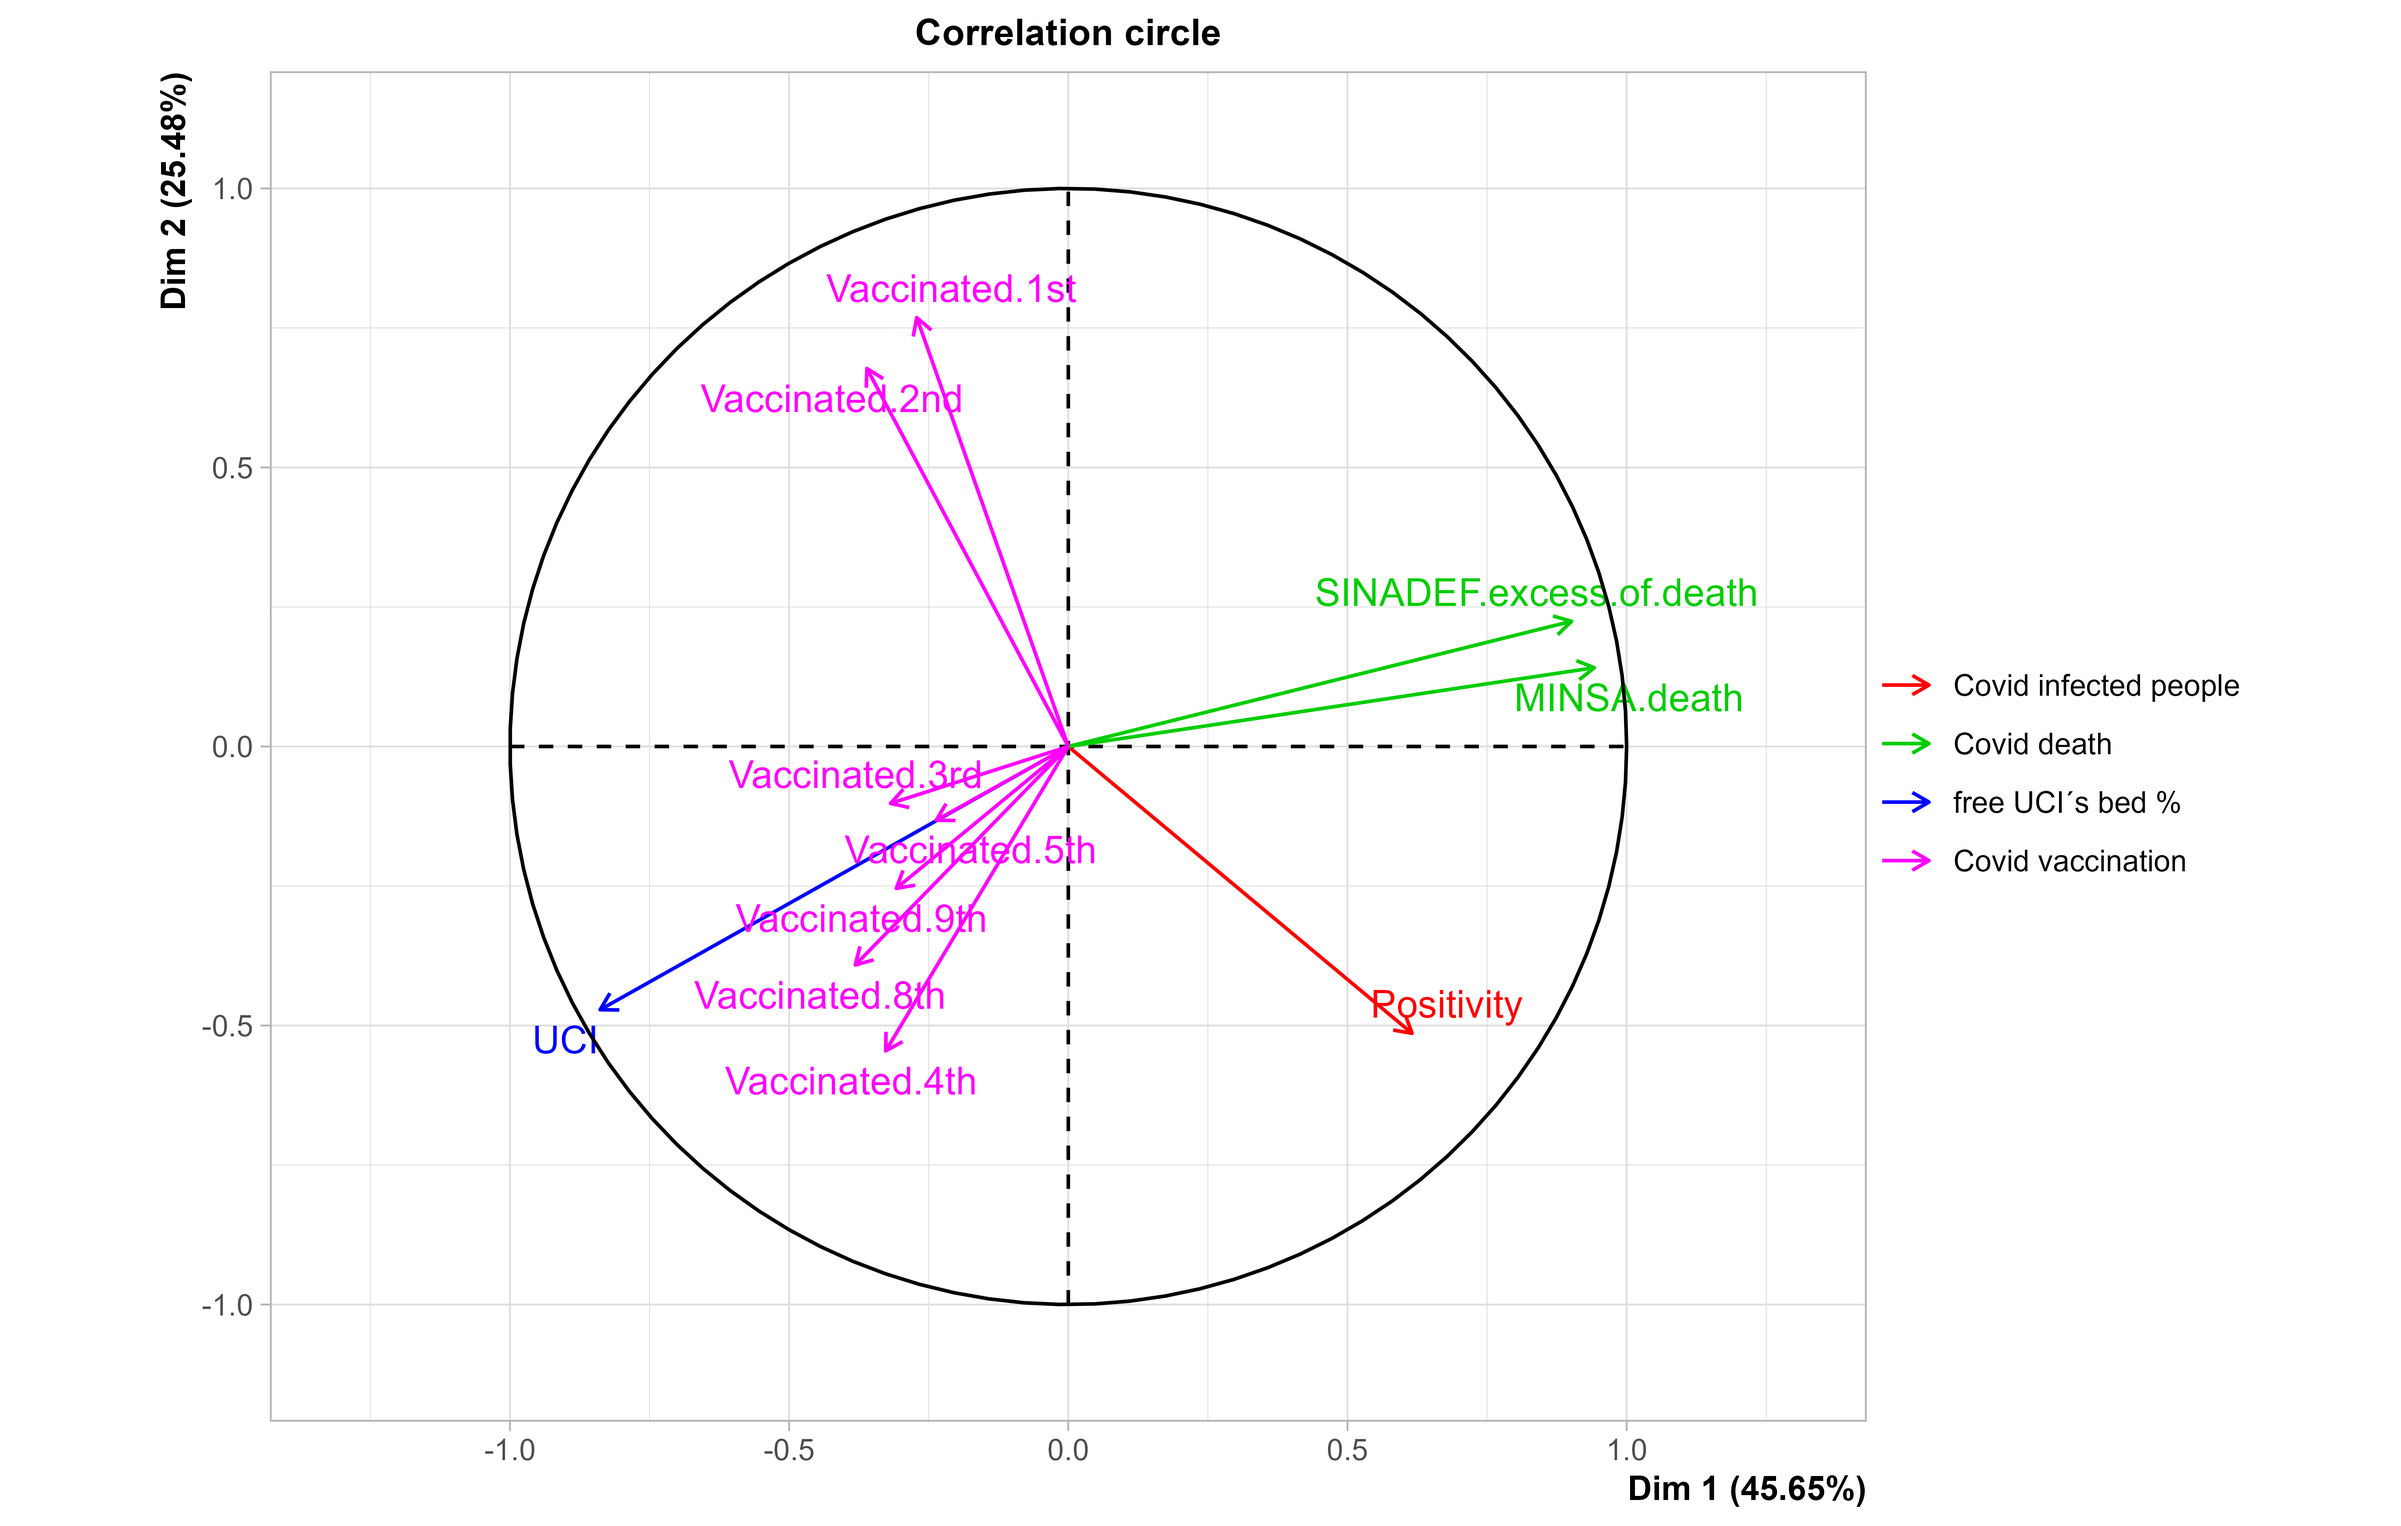
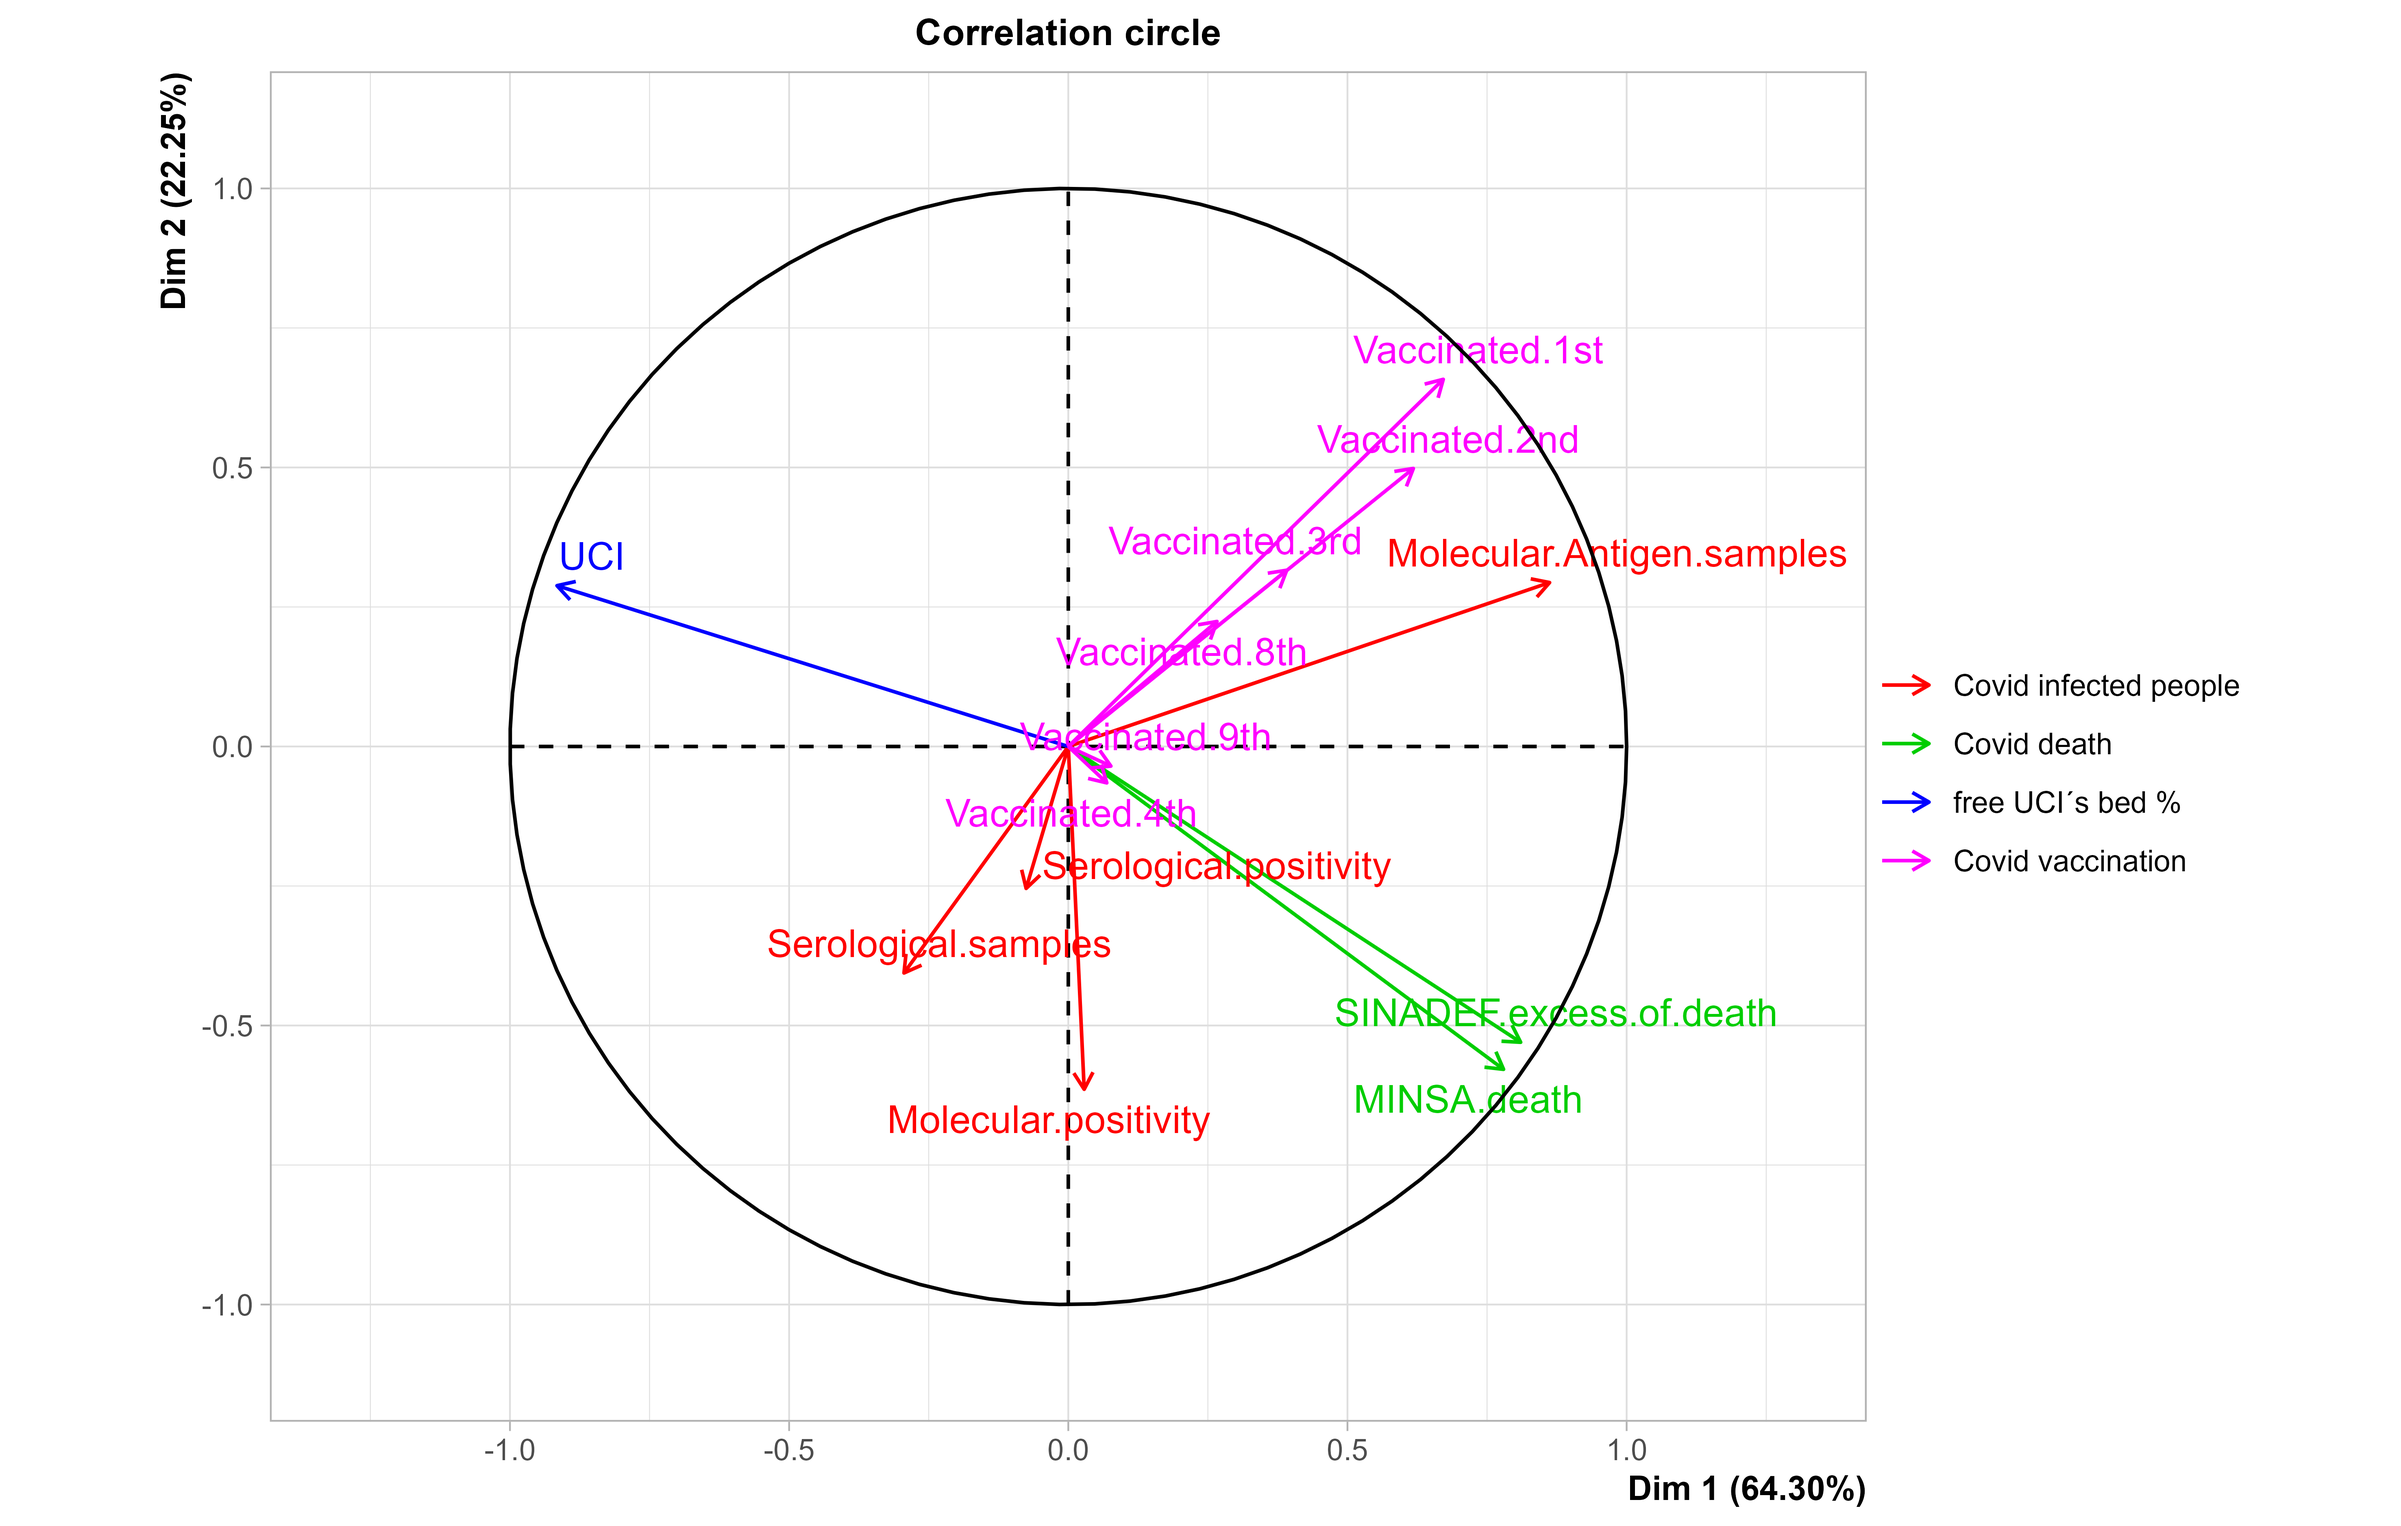
ok

diff --git a/multivariate.md b/multivariate.md
@@ -8,14 +8,14 @@
 -   [R code](#r-code)
 
 ## Introduction
-
 After cleaning and sorting the COVID-19 data, it is possible to merge and analyze it to reveal patterns and trends in the spread of COVID-19. the next step is to perform a multivariate analysis, which will help to generate hypotheses about the spread of COVID-19 in the future.
 
 ## Principal outcomes
-
-
+I merged 20 variables (date, Molecular positivity, number of samples  Molecular and Antigen tests, Serological positivity, number of samples  Serological tests, Excess of SINADEF´s deaths, MINSA´s deaths, DIRESA+DIRIS´s deaths, DIRESA+DIRIS´s COVID-19 patients, Non-free bed of ICU, and Vaccination people) were clustered in group according to affinity in 
+                 
+                
 ### Factorial Principal components (FPCs)
 
-|[![Figure .1](plotting/exploratory.plot.png)](https://github.com/jasb3110/COVIDPERU/blob/f41196ef7096026e2a940d7323583b8b07b9956b/plotting/exploratory.plot.png?raw=true)|
+|[![Figure .1](plotting/AMV.biplot.png)](https://github.com/jasb3110/COVIDPERU/blob/1ee55684f2eadadde76548a45d09be429252cf5f/plotting/AMV.biplot.png?raw=true)|
 |:----------------------------------------------------------------------------:|
 |*Figure 1.Compounded exploratory plot*|
